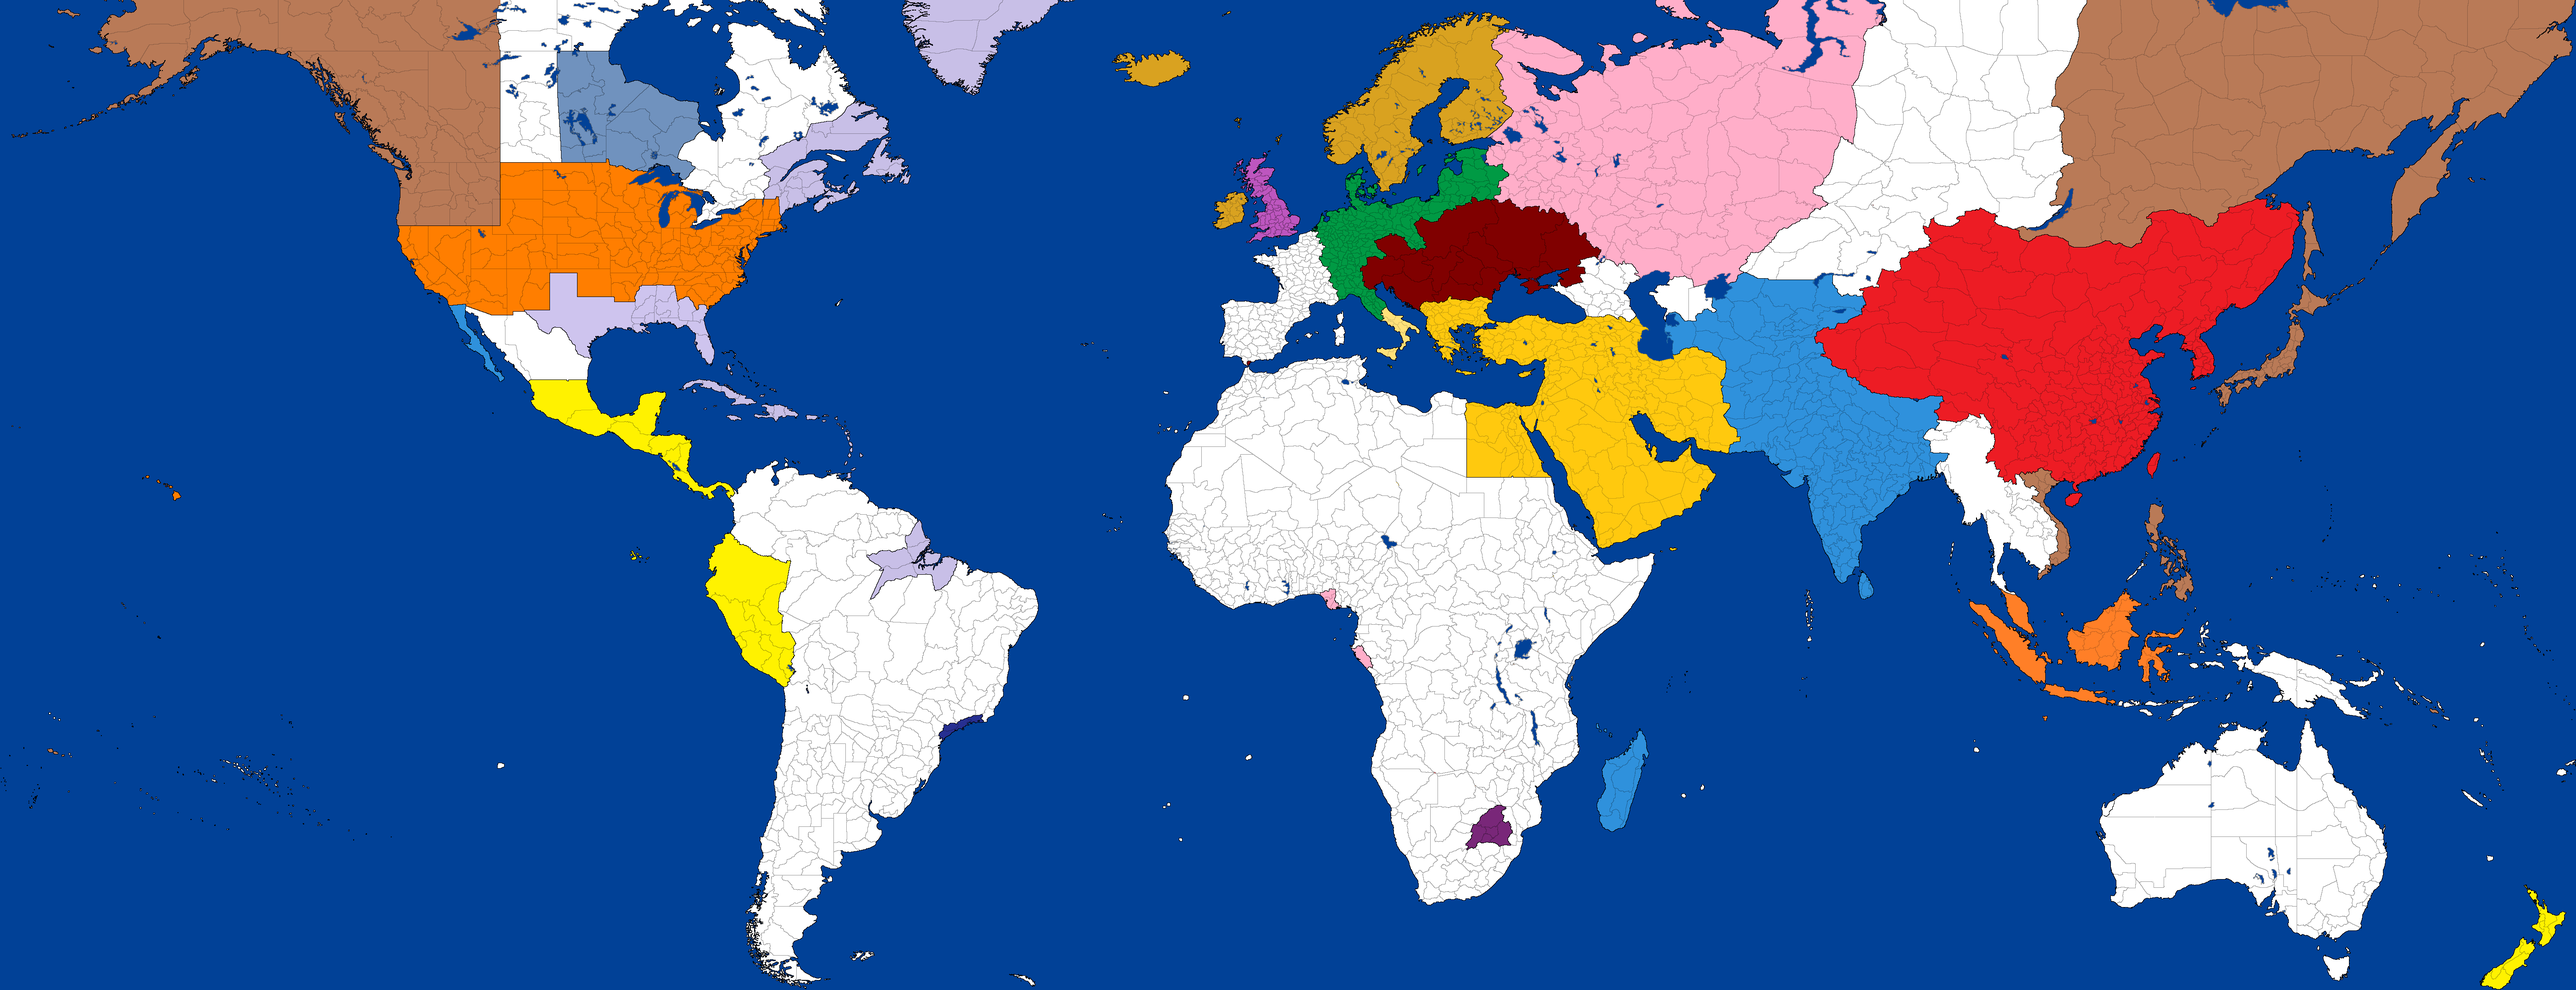
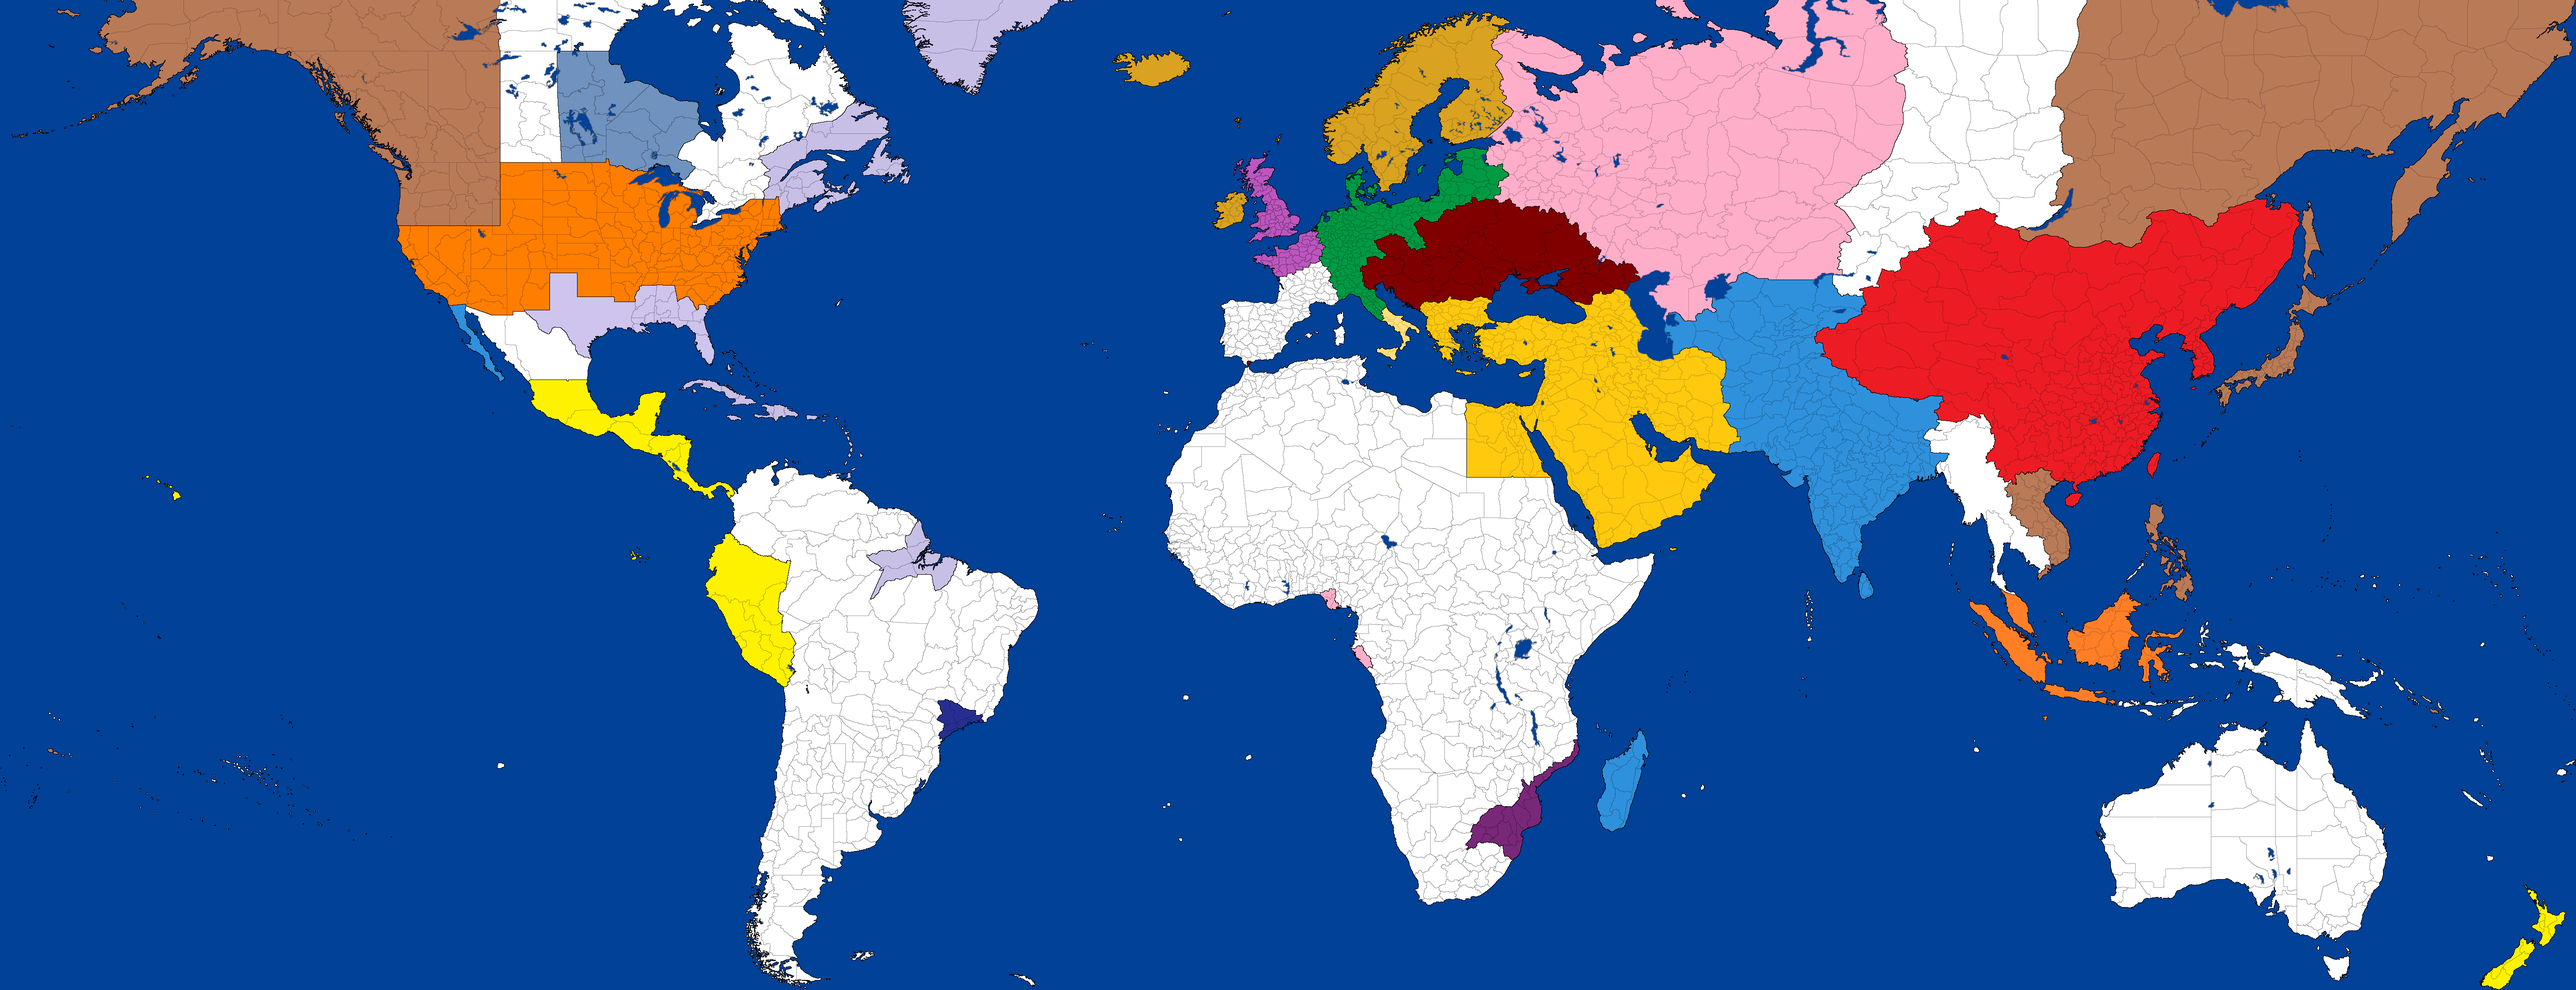
31st March

diff --git a/index.html b/index.html
@@ -188,7 +188,6 @@
               <li><div class="box wsEarth"></div>The Mexican Crown Dominion</li>
               <li><div class="box ashEarth"></div>Ashian Baja</li>
               <li><div class="box rdaEarth"></div>North Pacific Empire</li>
-              <li><div class="box moravaEarth"></div>Morava</li>              
       </ul>
    </div>
    <div class="newHeadings">
@@ -196,11 +195,12 @@
       <ul class="list">
               <li><div class="box wsEarth"></div>The Manteño Crown Dominion</li>
               <li><div class="box cccpEarth"></div>CCCP</li>
+              <li><div class="box moravaEarth"></div>Morava</li>
       </ul>
    </div>
 </div>
 		<div class="spaceDate">
-        	<p class="footer">Updated 22nd March 2019</p>
+        	<p class="footer">Updated 31st March 2019</p>
         	<p class="footer">Made by  <img src="alexfavicon.png"> Alex and <img src="aidanfavicon.png"> Aidan</p>
 		</div>
 	</div>
